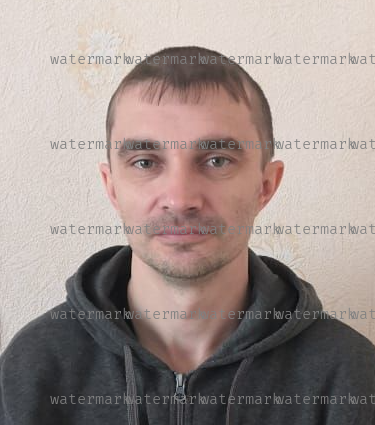
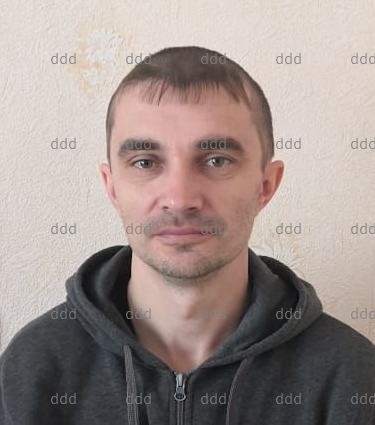
Новый дизайн

diff --git a/templates/index.html b/templates/index.html
@@ -16,63 +16,59 @@
 <div class="container-sm">
     <div class="text-center">
         <h1>Наложение текста ("водяного знака") на файлы изображений</h1>
-        <form>
-            <div class="mb-3">
-                <label for="formFile" class="form-label">Загрузите файл изображения</label>
-                <input class="form-control" type="file" id="formFile">
-            </div>
-            <div class="form-floating mb-3">
-                <input type="text" class="form-control" id="floatingInput" placeholder="watermark">
-                <label for="floatingInput">Водяной знак</label>
-            </div>
-            <div class="accordion accordion-flush" id="accordionFlushOptions">
-                <div class="accordion-item">
-                    <h2 class="accordion-header" id="flush-headingOne">
-                        <button class="accordion-button collapsed" type="button" data-bs-toggle="collapse"
-                            data-bs-target="#flush-collapseOne" aria-expanded="false" aria-controls="flush-collapseOne">
-                            Опции
-                        </button>
-                    </h2>
-                    <div id="flush-collapseOne" class="accordion-collapse collapse" aria-labelledby="flush-headingOne"
-                        data-bs-parent="#accordionFlushExample">
-                        <div class="accordion-body">
-                            <div class="row">
-                                <div class="col-sm-8">
-                                    <div class="input-group mb-3">
-                                        <span class="input-group-text">Стартовая позиция наложения</span>
-                                        <input type="text" aria-label="start_x" class="form-control"
-                                            placeholder="50"><span class="input-group-text">x</span>
-                                        <input type="text" aria-label="start_y" class="form-control"
-                                            placeholder="50"><span class="input-group-text">y</span>
-                                    </div>
-                                </div>
-                                <div class="col-sm-4">
-                                    <div class="form-check">
-                                        <input class="form-check-input" type="radio" name="flexRadioDefault"
-                                            id="flexRadioDefault1">
-                                        <label class="form-check-label" for="flexRadioDefault1">
-                                            Заполнять всё изображение
-                                        </label>
-                                    </div>
-                                    <div class="form-check">
-                                        <input class="form-check-input" type="radio" name="flexRadioDefault"
-                                            id="flexRadioDefault2" checked>
-                                        <label class="form-check-label" for="flexRadioDefault2">
-                                            Вставить надпись один раз
-                                        </label>
-                                    </div>
-                                </div>
-                            </div>
-                            <label for="customRange3" class="form-label">Размер шрифта</label>
-                            <input type="range" class="form-range" min="0" max="5" step="0.5" id="customRange3">
+    </div>
+    <form action="" method=post enctype=multipart/form-data>
+        <div class="mb-3">
+            <label for="file" class="form-label">Загрузите файл изображения</label>
+            <input class="form-control" type="file" id="file" name="file">
+        </div>
+        <div class="form-floating mb-3">
+            <input type="text" class="form-control" id="watermark" placeholder="watermark" name="watermark">
+            <label for="floatingInput">Водяной знак</label>
+        </div>
+
+        <div class="d-grid gap-2 col-6 mx-auto">
+            <button type="submit" class="btn btn-primary">Обработать</button>
+        </div>
+        <br>
+        <div class="accordion accordion-flush" id="accordionFlushExample">
+            <div class="accordion-item">
+                <h2 class="accordion-header" id="flush-headingOne">
+                    <button class="accordion-button collapsed" type="button" data-bs-toggle="collapse"
+                        data-bs-target="#flush-collapseOne" aria-expanded="false" aria-controls="flush-collapseOne">
+                        Опции
+                    </button>
+                </h2>
+                <div id="flush-collapseOne" class="accordion-collapse collapse" aria-labelledby="flush-headingOne"
+                    data-bs-parent="#accordionFlushExample">
+                    <div class="accordion-body">
+                        <label class="form-label">Стартовая позиция наложения</label>
+                        <div class="input-group mb-3">
+                            <input type="text" aria-label="start_x" class="form-control" placeholder="50" name="start_x"><span
+                                class="input-group-text">x</span>
+                            <input type="text" aria-label="start_y" class="form-control" placeholder="50" name="start_y"><span
+                                class="input-group-text">y</span>
                         </div>
+                        <div class="form-check">
+                            <input class="form-check-input" type="radio" name="fill" id="exampleRadios1"
+                                value="optionAll" checked>
+                            <label class="form-check-label" for="exampleRadios1">
+                                Заполнять целиком
+                            </label>
+                        </div>
+                        <div class="form-check">
+                            <input class="form-check-input" type="radio" name="fill" id="exampleRadios2"
+                                value="optionOne">
+                            <label class="form-check-label" for="exampleRadios2">
+                                Один раз
+                            </label>
+                        </div>
+                        <label for="customRange3" class="form-label">Размер шрифта</label>
+                        <input type="range" class="form-range" min="0" max="5" step="0.5" id="customRange3">
                     </div>
                 </div>
             </div>
-            <div class="d-grid gap-2 col-6 mx-auto">
-                <button type="submit" class="btn btn-primary">Обработать</button>
-            </div>
-        </form>
-    </div>
+        </div>
+    </form>
 </div>
 {% endblock %}

diff --git a/app.py b/app.py
@@ -1,6 +1,6 @@
 #!/usr/bin/python3
 
-#TODO
+# TODO
 # Аргументы из локальной строки
 # Поднять веб-сервер и обрабатывать загрузку файлов и выдачу файла в ответ
 # Сделать RESTapi для внешних приложений на сайте
@@ -16,8 +16,6 @@ import forms
 import watermark
 
 
-
-
 UPLOAD_FOLDER = '.'
 ALLOWED_EXTENSIONS = set(['jpg', 'jpeg', 'png'])
 FONT_FILE = "FiraCode-Light.ttf"
@@ -25,53 +23,50 @@ SECRET_KEY = os.urandom(32)
 
 app = Flask(__name__)
 app.config['UPLOAD_FOLDER'] = UPLOAD_FOLDER
-app.config['MAX_CONTENT_LENGTH'] = 4 * 1024 * 1024    # Ограничение на загрузку 4Mb
+app.config['MAX_CONTENT_LENGTH'] = 4 * 1024 * \
+    1024    # Ограничение на загрузку 4Mb
 app.config['SECRET_KEY'] = SECRET_KEY
 app.config['DEBUG'] = True
 
 bootstrap = Bootstrap(app)
 
+
 def allowed_file(filename):
     return '.' in filename and \
-            filename.rsplit('.', 1)[1] in ALLOWED_EXTENSIONS
+        filename.rsplit('.', 1)[1] in ALLOWED_EXTENSIONS
 
 
 @app.route('/', methods=['GET', 'POST'])
-def upload_file():
+@app.route('/index', methods=['GET', 'POST'])
+def index():
+    flash('Крестик не закрывает!!!')
     if request.method == 'POST':
         file = request.files['file']
-        if file and  allowed_file(file.filename):
+        if file and allowed_file(file.filename):
             # TODO
             # Почему подготовка имени файла идёт после проверки на допустимые файлы?
             # Не может ли быть такого случая, когда имя файла после подготовки станет недопустимым?
             filename = secure_filename(file.filename)
             file.save(os.path.join(app.config['UPLOAD_FOLDER'], filename))
-            return redirect(url_for('get_image', filename=filename))
+            start_x = int(request.form['start_x']
+                          ) if request.form['start_x'] else 50
+            start_y = int(request.form['start_y']
+                          ) if request.form['start_y'] else 50
+            start_position = (start_x, start_y)
+            print(start_position)
+            fill_text = (request.form['fill'] == 'optionAll')
+            watermark_file = watermark.watermark_text(
+                filename, request.form['watermark'], startpos=start_position, fill_text=fill_text)
+            return redirect(url_for('get_image', filename=watermark_file))
             # return redirect(url_for('upload_file'))
-    return '''
-    <!doctype html>
-    <title>Upload new File</title>
-    <h1>Загрузите файл для обработки</h1>
-    <form action="" method=post enctype=multipart/form-data>
-      <p><input type=file name=file>
-         <input type=submit value="Обработать">
-    </form>
-    '''
-
-
-@app.route('/index')
-def index():
-    flash('Крестик не закрывает!!!')
-    form = forms.UploadForm()
-    return render_template('index.html', form=form)
+    return render_template('index.html')
 
 
 @app.route('/get_image/<filename>')
 def get_image(filename):
     if filename:
-        return send_file(watermark.watermark_text(filename), as_attachment=True)
+        return send_file(filename, as_attachment=True)
     return redirect(url_for('upload_file'))
-
 
 
 if __name__ == '__main__':

diff --git a/watermark.py b/watermark.py
@@ -7,12 +7,12 @@ from PIL import ImageFont
 
 
 
-def watermark_text(image_path, text='watermark', color_text='gray', startpos=(50, 50), fontfile="FiraCode-Light.ttf"):
+def watermark_text(image_path, text='watermark', color_text='gray', startpos=(50, 50), fill_text=True, fontfile="FiraCode-Light.ttf"):
     ''' Накладываем водяной знак на изображение.
         Необходимые параметры запуска: watermark.py imagefile
-        Параметры запуска: watermark.py imagefile watermark_text color start_position fontfile
+        Параметры запуска: watermark.py imagefile watermark_text color start_position fill_text fontfile
         color: 'gray', 'black', 'white'
-        Пример (example):  watermark.py image.jpg 'some text' black (0,0) font.ttf
+        Пример (example):  watermark.py image.jpg 'some text' black (0,0) True font.ttf
     '''
 
     photo = Image.open(image_path)
@@ -28,10 +28,14 @@ def watermark_text(image_path, text='watermark', color_text='gray', startpos=(50
     color = color_dict.get(color_text, 'gray')
 
     font = ImageFont.truetype(fontfile, 15)
-    for x in range(startpos[0], photo.size[0], photo.size[0]//5):
-        for y in range(startpos[1], photo.size[1], photo.size[1]//5):
-            text_pos = (x, y)
-            drawing.text(text_pos, text, fill=color, font=font)
+    if fill_text:
+        for x in range(startpos[0], photo.size[0], photo.size[0]//5):
+            for y in range(startpos[1], photo.size[1], photo.size[1]//5):
+                text_pos = (x, y)
+                drawing.text(text_pos, text, fill=color, font=font)
+    else:
+        text_pos = (startpos[0], startpos[1])
+        drawing.text(text_pos, text, fill=color, font=font)
 
     # photo.show()
     photo.save('wm_' + image_path)
